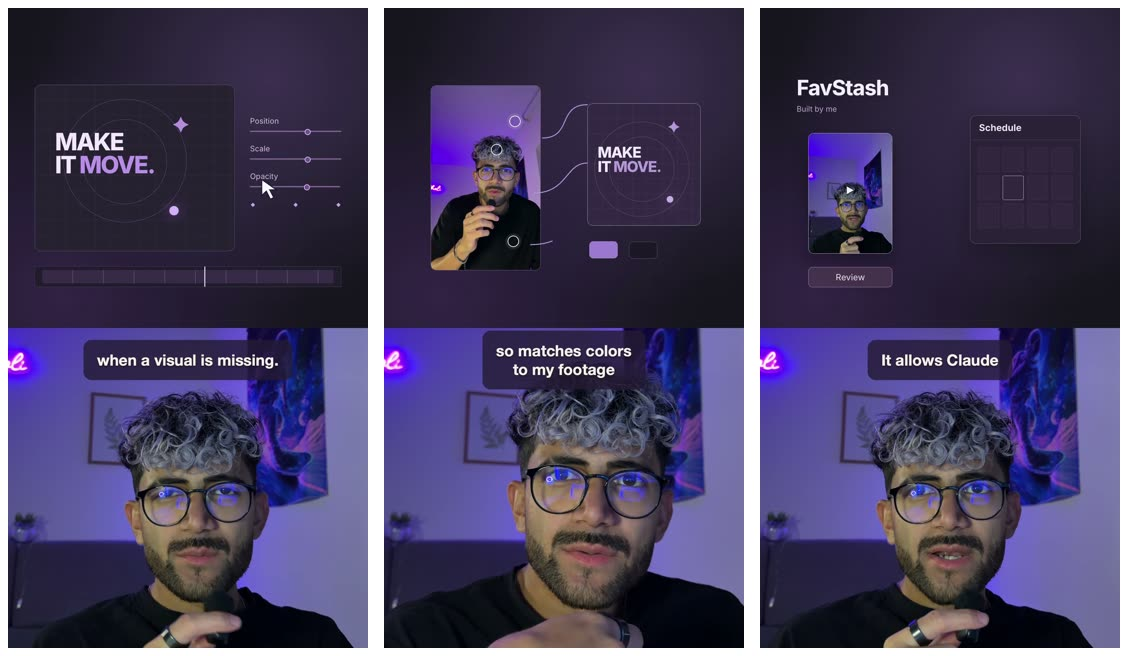
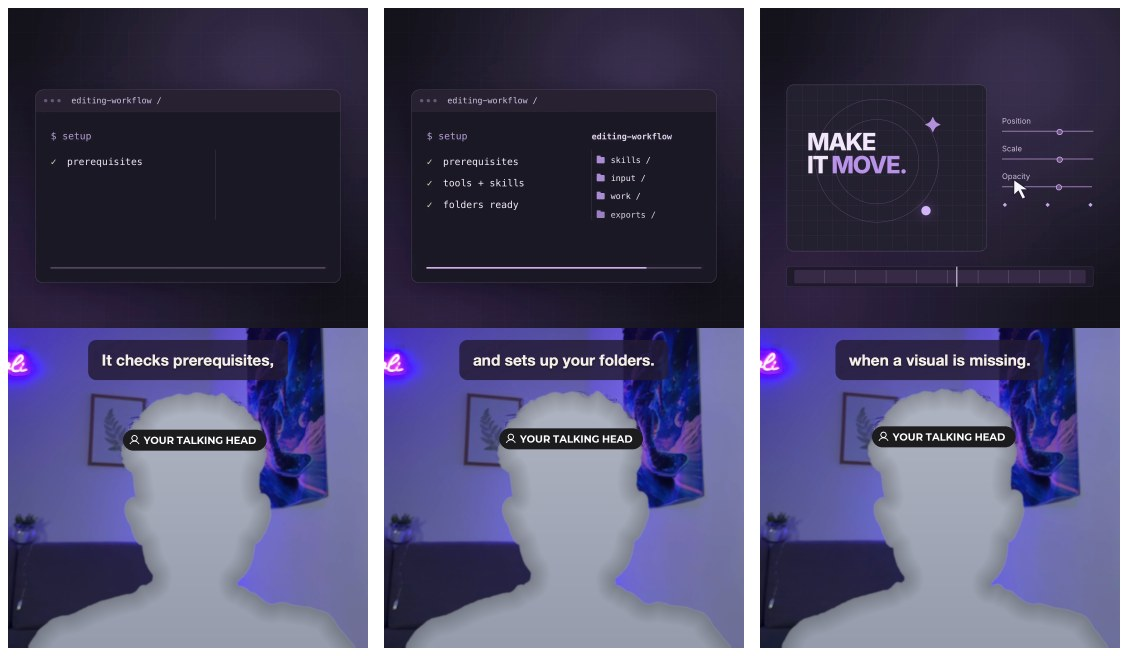
Use placeholder figures instead of the maintainer's face in the style previews
The previews keep each style's real layout, captions and cards; the speaker is
replaced by a neutral figure labelled "Your talking head" (a frosted figure
labelled "Your footage" for text over footage), found with Apple Vision.

diff --git a/THIRD_PARTY_NOTICES.md b/THIRD_PARTY_NOTICES.md
@@ -19,4 +19,4 @@ The adaptive glass CSS is an original implementation informed by the optical-lay
 
 Generated WAVs are original synthesis covered by Apache-2.0. The separately marked curated recordings were supplied by the maintainer from his public/non-copyright sound library and included at his request; they are not repository-generated recordings or newly relicensed by the code license.
 
-The style preview images in `assets/previews/` show the maintainer's own footage and are included with his permission; they are not covered by the code license for reuse as stock footage.
+The style preview images in `assets/previews/` come from the maintainer's own reels, with the speaker replaced by a placeholder figure, and are included with his permission; they are not covered by the code license for reuse as stock footage.

diff --git a/README.md b/README.md
@@ -152,5 +152,5 @@ npm run validate
 
 See [contributing](CONTRIBUTING.md) and [security](SECURITY.md). Code, instructions
 and original SFX use [Apache-2.0](LICENSE); external tools and the bundled Montserrat
-font keep their own [licenses](THIRD_PARTY_NOTICES.md). The style previews use the
-maintainer's own footage.
+font keep their own [licenses](THIRD_PARTY_NOTICES.md). The style previews come from
+the maintainer's own reels, with the speaker replaced by a placeholder.
